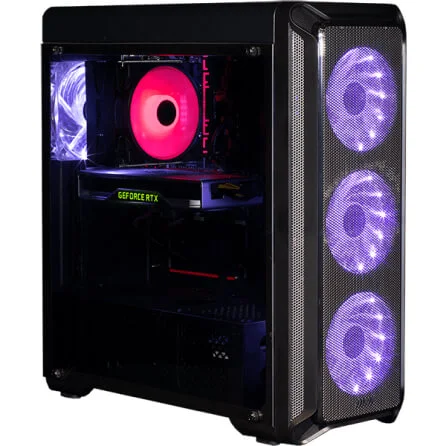
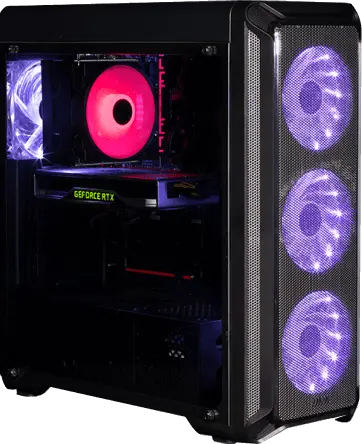
fix: picture in what-are-we-doing block and adaptive

diff --git a/css/style.css b/css/style.css
@@ -6,6 +6,7 @@
 
 body {
   font-family: "Roboto", sans-serif;
+  background-color: rgb(29, 26, 26);
 }
 
 .header {
@@ -224,17 +225,19 @@ body {
 
 .what-are-we-doing {
   margin-top: 12.5rem;
+  margin-bottom: 15.1875rem;
 }
 
 .wrapper-what-are-we-doing {
   display: flex;
   flex-direction: row-reverse;
+  justify-content: center;
   align-items: center;
   gap: 8.6875rem;
 }
 
 .what-are-we-doing-info {
-  flex-basis: 50%;
+  flex-basis: 40%;
 }
 
 .wrapper-picture {
@@ -244,15 +247,33 @@ body {
   border: 1.875rem solid;
   /* рисует изображение вокруг заданного элемента */
   border-image: linear-gradient(94.78deg, #c89afc 11.19%, #7c6afa 93.72%);
-  /* делит изображение, заданное на области */
+  /* делит изображение, заданное на области, хотя так и не понял как */
   border-image-slice: 1;
 }
 
 .what-are-we-doing-picture {
   position: absolute;
   top: 6rem;
-  width: 29.1rem;
+  left: 52.5px;
+  width: 22.5625rem;
   height: 27.875rem;
+}
+
+.what-are-we-doing-title {
+  margin-bottom: 2.8125rem;
+  font-style: normal;
+  font-weight: 700;
+  font-size: 3rem;
+  line-height: 140%;
+  color: #ffffff;
+}
+
+.what-are-we-doing-text {
+  font-style: normal;
+  font-weight: 400;
+  font-size: 1rem;
+  line-height: 160%;
+  color: #ffffff;
 }
 
 @media (min-width: 992px) {
@@ -313,5 +334,13 @@ body {
 
   .statistics-scale::before {
     width: 11.25rem;
+  }
+
+  .wrapper-what-are-we-doing {
+    flex-direction: column;
+  }
+
+  .what-are-we-doing-info {
+    width: 37.5rem;
   }
 }
